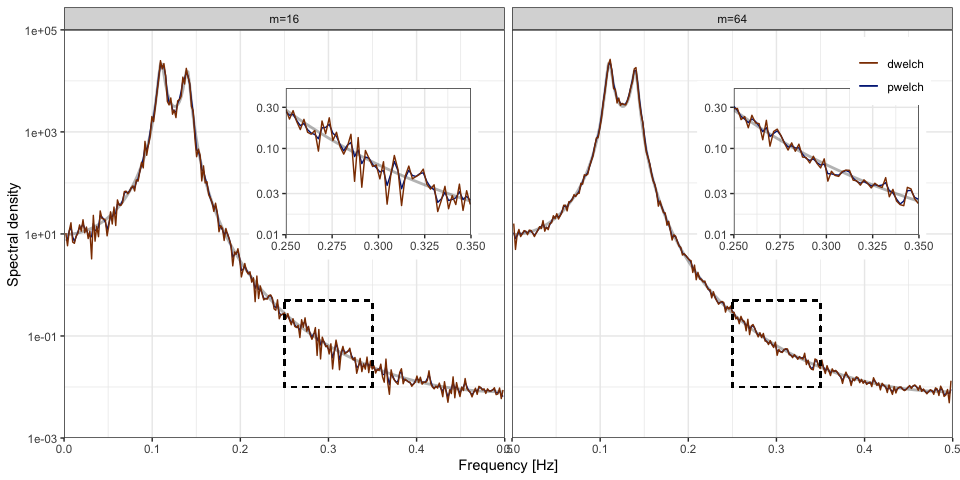
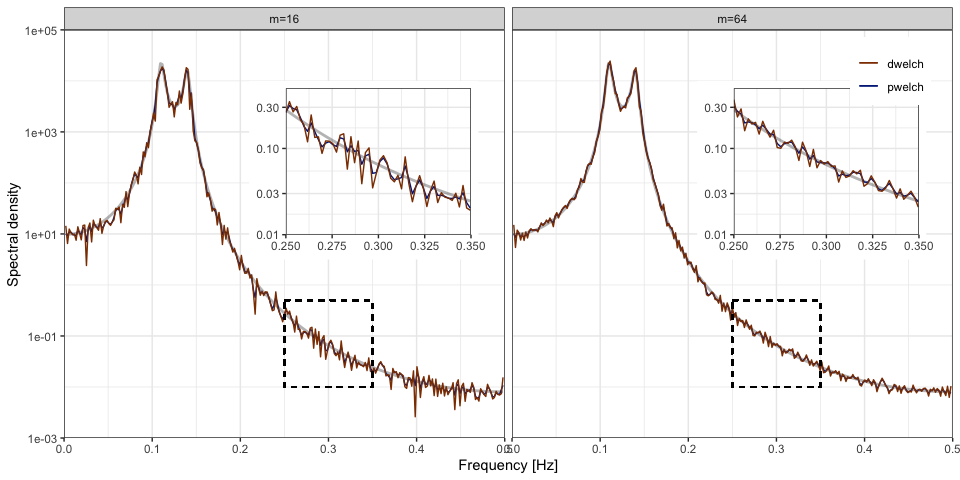
formatted plots in readme

diff --git a/README.md b/README.md
@@ -129,8 +129,6 @@ noting that as $m$ increases, and hence the validity of certain
 assumptions in the paper increase, the estimates converge.
 
 ``` r
-set.seed(28)
-
 k <- round(get_nfreq(l), 0)
 
 m1 <- 32
